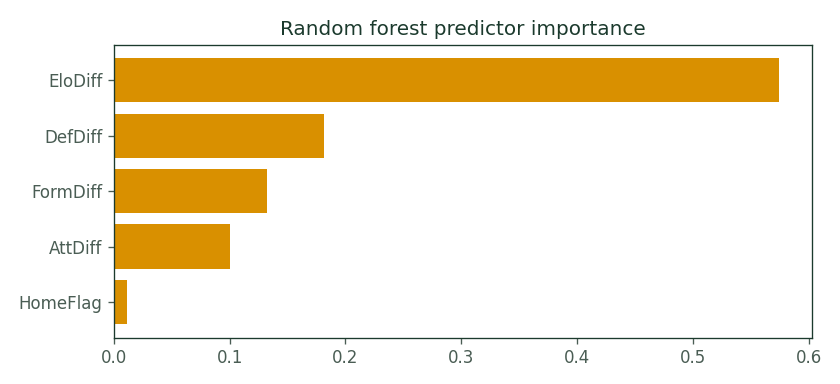
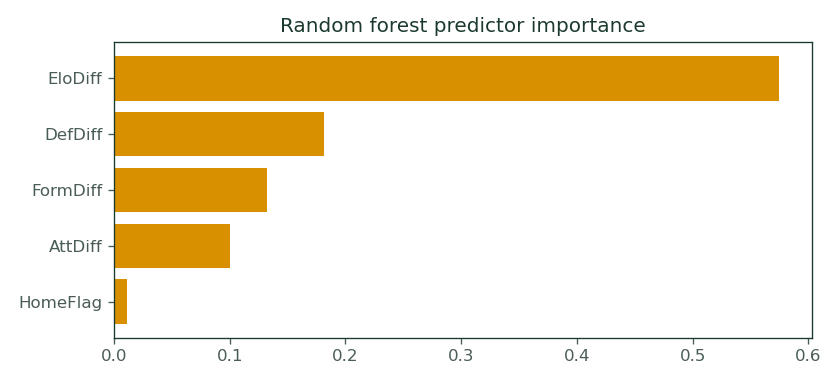
Add files via upload

diff --git a/index.html b/index.html
@@ -89,7 +89,7 @@ img.fig{max-width:100%;border-radius:12px;border:1px solid var(--line);margin:10
 <nav><a href="index.html">Matchday</a><a href="schedule.html">Schedule</a><a href="methods.html">Under the hood</a><a href="legacy.html">Since 2014</a><a href="about.html">About us</a><a href="index.html#subscribe">Subscribe</a></nav>
 </div></header><main class="wrap"><div class="chips"><span class="chip"><b>2</b>matches tomorrow</span><span class="chip"><b>60%</b>holdout accuracy</span><span class="chip"><b>13/16</b>2014 knockouts</span></div>
 <h2>Matchday: 2026-06-11</h2>
-<p class="note">Predictions lock before kickoff. Last build: 2026-06-10 19:04 UTC.</p>
+<p class="note">Predictions lock before kickoff. Last build: 2026-06-11 23:37 UTC.</p>
 <div class="card"><div class="meta"><span class="tag g">Group A</span><span class="tag">2026-06-11</span><span class="tag">Mexico City, Mexico</span></div><div class="duel"><div class="teams"><img class="flag" src="https://flagcdn.com/w28/mx.png" srcset="https://flagcdn.com/w56/mx.png 2x" width="28" alt="" loading="lazy">Mexico<span class="vs">vs</span><img class="flag" src="https://flagcdn.com/w28/za.png" srcset="https://flagcdn.com/w56/za.png 2x" width="28" alt="" loading="lazy">South Africa</div><div class="bignum"><b>81%</b><span>Mexico by 2</span></div></div><p class="pickline">Predicted outcome: <b>Mexico wins</b> with goal difference of 2. Confidence score 0.81 (max 1).</p><div class="bar"><i style="width:80.6%;background:var(--gold)"></i><i style="width:14.1%;background:var(--sage)"></i><i style="width:5.3%;background:var(--red)"></i></div><div class="legend"><img class="flag" src="https://flagcdn.com/w24/mx.png" srcset="https://flagcdn.com/w48/mx.png 2x" width="24" alt="" loading="lazy"> <b>Mexico</b> 81% · draw 14% · <img class="flag" src="https://flagcdn.com/w24/za.png" srcset="https://flagcdn.com/w48/za.png 2x" width="24" alt="" loading="lazy"> <b>South Africa</b> 5%</div><details><summary>How the model got here</summary><table>
 <tr><th></th>
 <th class="num"><abbr title="Strength rating updated after every match since 1872. Beating a stronger side gains more points; the world average is ~1500 and elite teams sit above 2000. Hosts get +100 for true home games.">Elo</abbr></th>
@@ -148,5 +148,5 @@ Weights come from each model's Brier score on 2,535 held-out internationals (202
 <input type="email" name="email" placeholder="[email redacted]" required>
 <button type="submit">Subscribe</button></form>
 <p class="note" style="margin-top:10px">Prefer a feed? <a href="feed.xml">RSS</a> updates with every build.</p></div></main>
-<footer><div class="wrap">UB Analytics · Not betting advice · Data: <a href="https://github.com/martj42/international_results">martj42/international_results</a> (CC0) · 2014–2018 archive: <a href="https://ubanalytics.wordpress.com">ubanalytics.wordpress.com</a></div></footer>
+<footer><div class="wrap">UB Analytics is an independent project, not affiliated with or endorsed by FIFA. Not betting advice. · Data: <a href="https://github.com/martj42/international_results">martj42/international_results</a> (CC0) · 2014–2018 archive: <a href="https://ubanalytics.wordpress.com">ubanalytics.wordpress.com</a></div></footer>
 </body></html>

diff --git a/about.html b/about.html
@@ -116,5 +116,5 @@ img.fig{max-width:100%;border-radius:12px;border:1px solid var(--line);margin:10
 <tr><td>2026 · North America</td><td>Bhupinder Juneja, Ujjal Mukherjee</td><td>Python + R, self-computed Elo, Poisson scorelines, Brier-weighted ensemble, public scorecard</td></tr>
 </table></div>
 <p class="note">Questions, corrections, or a model you think beats ours? The 2014 and 2018 archives are open at <a href="https://ubanalytics.wordpress.com">ubanalytics.wordpress.com</a>, and the 2026 methodology is fully documented <a href="methods.html">under the hood</a>.</p></main>
-<footer><div class="wrap">UB Analytics · Not betting advice · Data: <a href="https://github.com/martj42/international_results">martj42/international_results</a> (CC0) · 2014–2018 archive: <a href="https://ubanalytics.wordpress.com">ubanalytics.wordpress.com</a></div></footer>
+<footer><div class="wrap">UB Analytics is an independent project, not affiliated with or endorsed by FIFA. Not betting advice. · Data: <a href="https://github.com/martj42/international_results">martj42/international_results</a> (CC0) · 2014–2018 archive: <a href="https://ubanalytics.wordpress.com">ubanalytics.wordpress.com</a></div></footer>
 </body></html>

diff --git a/legacy.html b/legacy.html
@@ -105,5 +105,5 @@ img.fig{max-width:100%;border-radius:12px;border:1px solid var(--line);margin:10
 <div style="overflow-x:auto"><table><tr><th>Date</th><th>Round</th><th>Match</th><th>Predicted</th><th>Prob</th><th>Result</th></tr><tr><td class="">16-Jun-18</td><td class="">Group</td><td class="">Argentina vs. Iceland</td><td class="">Argentina</td><td class="">0.62</td><td class="miss">Draw</td></tr><tr><td class="">16-Jun-18</td><td class="">Group</td><td class="">Peru vs. Denmark</td><td class="">Denmark</td><td class="">0.5983</td><td class="hit">Denmark won by 1</td></tr><tr><td class="">16-Jun-18</td><td class="">Group</td><td class="">Croatia vs. Nigeria</td><td class="">Croatia</td><td class="">0.5586</td><td class="hit">Croatia won by 2</td></tr><tr><td class="">17-Jun-18</td><td class="">Group</td><td class="">Costa Rica vs. Serbia</td><td class="">Serbia</td><td class="">0.6431</td><td class="hit">Serbia won by 1</td></tr><tr><td class="">17-Jun-18</td><td class="">Group</td><td class="">Germany vs. Mexico</td><td class="">Germany</td><td class="">0.6664</td><td class="miss">Mexico won by 1</td></tr><tr><td class="">17-Jun-18</td><td class="">Group</td><td class="">Brazil vs. Switzerland</td><td class="">Brazil</td><td class="">0.6592</td><td class="miss">Draw</td></tr><tr><td class="">18-Jun-18</td><td class="">Group</td><td class="">Sweden vs. South Korea</td><td class="">Sweden</td><td class="">0.668</td><td class="hit">Sweden won by 1</td></tr><tr><td class="">18-Jun-18</td><td class="">Group</td><td class="">Belgium vs. Panama</td><td class="">Belgium</td><td class="">0.7345</td><td class="hit">Belgium won by 3</td></tr><tr><td class="">18-Jun-18</td><td class="">Group</td><td class="">Tunisia vs. England</td><td class="">England</td><td class="">0.7399</td><td class="hit">England won by 1</td></tr><tr><td class="">19-Jun-18</td><td class="">Group</td><td class="">Colombia vs. Japan</td><td class="">Japan</td><td class="">0.504</td><td class="hit">Japan won by 1</td></tr><tr><td class="">19-Jun-18</td><td class="">Group</td><td class="">Poland vs. Senegal</td><td class="">Poland</td><td class="">0.521</td><td class="miss">Senegal won by 1</td></tr><tr><td class="">19-Jun-18</td><td class="">Group</td><td class="">Russia vs. Egypt</td><td class="">Russia</td><td class="">0.6858</td><td class="hit">Russia won by 2</td></tr><tr><td class="">20-Jun-18</td><td class="">Group</td><td class="">Portugal vs. Morocco</td><td class="">Portugal</td><td class="">0.6742</td><td class="hit">Portugal won by 1</td></tr><tr><td class="">20-Jun-18</td><td class="">Group</td><td class="">Uruguay vs. Saudi Arabia</td><td class="">Uruguay</td><td class="">0.6547</td><td class="hit">Uruguay won by 1</td></tr><tr><td class="">20-Jun-18</td><td class="">Group</td><td class="">Spain vs. Iran</td><td class="">Spain</td><td class="">0.7633</td><td class="hit">Spain won by 1</td></tr><tr><td class="">21-Jun-18</td><td class="">Group</td><td class="">Denmark vs. Australia</td><td class="">Denmark</td><td class="">0.6736</td><td class="miss">Draw</td></tr><tr><td class="">21-Jun-18</td><td class="">Group</td><td class="">France vs. Peru</td><td class="">France</td><td class="">0.6631</td><td class="hit">France won by 1</td></tr><tr><td class="">21-Jun-18</td><td class="">Group</td><td class="">Argentina vs. Croatia</td><td class="">Argentina</td><td class="">0.6132</td><td class="miss">Croatia won by 3</td></tr><tr><td class="">22-Jun-18</td><td class="">Group</td><td class="">Brazil vs. Costa Rica</td><td class="">Brazil</td><td class="">0.7099</td><td class="hit">Brazil won by 2</td></tr><tr><td class="">22-Jun-18</td><td class="">Group</td><td class="">Nigeria vs. Iceland</td><td class="">Iceland</td><td class="">0.5136</td><td class="miss">Nigeria won by 2</td></tr><tr><td class="">22-Jun-18</td><td class="">Group</td><td class="">Serbia vs. Switzerland</td><td class="">Serbia</td><td class="">0.5058</td><td class="miss">Switzerland won by 1</td></tr><tr><td class="">23-Jun-18</td><td class="">Group</td><td class="">Belgium vs. Tunisia</td><td class="">Belgium</td><td class="">0.7601</td><td class="hit">Belgium won by 4</td></tr><tr><td class="">23-Jun-18</td><td class="">Group</td><td class="">South Korea vs. Mexico</td><td class="">Mexico</td><td class="">0.6767</td><td class="hit">Mexico won by 1</td></tr><tr><td class="">23-Jun-18</td><td class="">Group</td><td class="">Germany vs. Sweden</td><td class="">Germany</td><td class="">0.6699</td><td class="hit">Germany won by 1</td></tr><tr><td class="">24-Jun-18</td><td class="">Group</td><td class="">England vs. Panama</td><td class="">England</td><td class="">0.7109</td><td class="hit">England won by 5</td></tr><tr><td class="">24-Jun-18</td><td class="">Group</td><td class="">Japan vs. Senegal</td><td class="">Japan</td><td class="">0.5079</td><td class="miss">Draw</td></tr><tr><td class="">24-Jun-18</td><td class="">Group</td><td class="">Poland vs. Colombia</td><td class="">Poland</td><td class="">0.5609</td><td class="miss">Colombia won by 3</td></tr><tr><td class="">25-Jun-18</td><td class="">Group</td><td class="">Saudi Arabia vs. Egypt</td><td class="">Saudi Arabia</td><td class="">0.5657</td><td class="hit">Saudi Arabia won by 1</td></tr><tr><td class="">25-Jun-18</td><td class="">Group</td><td class="">Uruguay vs. Russia</td><td class="">Uruguay</td><td class="">0.7259</td><td class="hit">Uruguay won by 3</td></tr><tr><td class="">25-Jun-18</td><td class="">Group</td><td class="">Iran vs. Portugal</td><td class="">Portugal</td><td class="">0.7068</td><td class="miss">Draw</td></tr><tr><td class="">25-Jun-18</td><td class="">Group</td><td class="">Spain vs. Morocco</td><td class="">Spain</td><td class="">0.7562</td><td class="miss">Draw</td></tr><tr><td class="">26-Jun-18</td><td class="">Group</td><td class="">Australia vs. Peru</td><td class="">Australia</td><td class="">0.5099</td><td class="miss">Peru won by 2</td></tr><tr><td class="">26-Jun-18</td><td class="">Group</td><td class="">Denmark vs. France</td><td class="">France</td><td class="">0.6071</td><td class="miss">Draw</td></tr><tr><td class="">26-Jun-18</td><td class="">Group</td><td class="">Nigeria vs. Argentina</td><td class="">Argentina</td><td class="">0.6295</td><td class="hit">Argentina won by 1</td></tr><tr><td class="">26-Jun-18</td><td class="">Group</td><td class="">Iceland vs. Croatia</td><td class="">Iceland</td><td class="">0.5631</td><td class="miss">Croatia won by 1</td></tr><tr><td class="">27-Jun-18</td><td class="">Group</td><td class="">South Korea vs. Germany</td><td class="">Germany</td><td class="">0.7716</td><td class="miss">South Korea won by 2</td></tr><tr><td class="">27-Jun-18</td><td class="">Group</td><td class="">Mexico vs. Sweden</td><td class="">Sweden</td><td class="">0.5988</td><td class="hit">Sweden won by 3</td></tr><tr><td class="">27-Jun-18</td><td class="">Group</td><td class="">Serbia vs. Brazil</td><td class="">Brazil</td><td class="">0.6642</td><td class="hit">Brazil won by 2</td></tr><tr><td class="">27-Jun-18</td><td class="">Group</td><td class="">Switzerland vs. Costa Rica</td><td class="">Costa Rica</td><td class="">0.5</td><td class="miss">Draw</td></tr><tr><td class="">28-Jun-18</td><td class="">Group</td><td class="">Japan vs. Poland</td><td class="">Poland</td><td class="">0.5406</td><td class="hit">Poland won by 1</td></tr><tr><td class="">28-Jun-18</td><td class="">Group</td><td class="">Senegal vs. Colombia</td><td class="">Senegal</td><td class="">0.5214</td><td class="miss">Colombia won by 1</td></tr><tr><td class="">28-Jun-18</td><td class="">Group</td><td class="">Panama vs. Tunisia</td><td class="">Panama</td><td class="">0.5977</td><td class="miss">Tunisia won by 1</td></tr><tr><td class="">28-Jun-18</td><td class="">Group</td><td class="">England vs. Belgium</td><td class="">Belgium</td><td class="">0.5982</td><td class="hit">Belgium won by 1</td></tr><tr><td class="">30-Jun-18</td><td class="">Round of 16</td><td class="">Uruguay vs. Portugal</td><td class="">Portugal</td><td class="">0.56</td><td class="miss">Uruguay won by 1</td></tr><tr><td class="">30-Jun-18</td><td class="">Round of 16</td><td class="">France vs. Argentina</td><td class="">Argentina</td><td class="">0.66</td><td class="miss">France won by 1</td></tr><tr><td class="">1-Jul-18</td><td class="">Round of 16</td><td class="">Spain vs. Russia</td><td class="">Spain</td><td class="">0.79</td><td class="miss">Russia won in penalty shoot-out</td></tr><tr><td class="">1-Jul-18</td><td class="">Round of 16</td><td class="">Croatia vs. Denmark</td><td class="">Croatia</td><td class="">0.52</td><td class="hit">Croatia won in penalty shoot-out</td></tr><tr><td class="">1-Jul-18</td><td class="">Round of 16</td><td class="">Brazil vs. Mexico</td><td class="">Brazil</td><td class="">0.71</td><td class="hit">Brazil won by 2</td></tr><tr><td class="">1-Jul-18</td><td class="">Round of 16</td><td class="">Belgium vs. Japan</td><td class="">Belgium</td><td class="">0.8</td><td class="hit">Belgium won by 1</td></tr><tr><td class="">6-Jul-18</td><td class="">Quarter Finals</td><td class="">Uruguay vs. France</td><td class="">Uruguay</td><td class="">0.63</td><td class="miss">France won by 2</td></tr><tr><td class="">6-Jul-18</td><td class="">Quarter Finals</td><td class="">Belgium vs. Brazil</td><td class="">Belgium</td><td class="">0.57</td><td class="hit">Belgium won by 1</td></tr><tr><td class="">7-Jul-18</td><td class="">Quarter Finals</td><td class="">Sweden vs. England</td><td class="">England</td><td class="">0.58</td><td class="hit">England won by 2</td></tr><tr><td class="">7-Jul-18</td><td class="">Quarter Finals</td><td class="">Russia vs. Croatia</td><td class="">Croatia</td><td class="">0.52</td><td class="hit">Croatia won in penalty shoot-out</td></tr></table></div></details>
 <h2>What carried forward</h2>
 <p class="note">Three constants across twelve years: predictions published before kickoff, results posted next to them whatever they say, and a team-strength-difference architecture under the hood. What changed is the discipline around it: 2026 adds strictly out-of-sample evaluation, calibrated probabilities, draw modeling, and a scorecard that updates itself. The archive of the first two campaigns remains at <a href="https://ubanalytics.wordpress.com">ubanalytics.wordpress.com</a>.</p></main>
-<footer><div class="wrap">UB Analytics · Not betting advice · Data: <a href="https://github.com/martj42/international_results">martj42/international_results</a> (CC0) · 2014–2018 archive: <a href="https://ubanalytics.wordpress.com">ubanalytics.wordpress.com</a></div></footer>
+<footer><div class="wrap">UB Analytics is an independent project, not affiliated with or endorsed by FIFA. Not betting advice. · Data: <a href="https://github.com/martj42/international_results">martj42/international_results</a> (CC0) · 2014–2018 archive: <a href="https://ubanalytics.wordpress.com">ubanalytics.wordpress.com</a></div></footer>
 </body></html>

diff --git a/methods.html b/methods.html
@@ -148,5 +148,5 @@ img.fig{max-width:100%;border-radius:12px;border:1px solid var(--line);margin:10
 <img class="fig" src="img_elo.png" alt="Elo top 20">
 <h2>6 · Lineage and classroom use</h2>
 <p class="note">The 2014 system scraped Soccerwiki for player-derived ratings, added FiveThirtyEight's SPI, imputed shot differentials with random forests, and ensembled GLM, random forest, and SVM; it called Germany over Argentina in the final. 2014–2018 archive: <a href="https://ubanalytics.wordpress.com">ubanalytics.wordpress.com</a>.</p></main>
-<footer><div class="wrap">UB Analytics · Not betting advice · Data: <a href="https://github.com/martj42/international_results">martj42/international_results</a> (CC0) · 2014–2018 archive: <a href="https://ubanalytics.wordpress.com">ubanalytics.wordpress.com</a></div></footer>
+<footer><div class="wrap">UB Analytics is an independent project, not affiliated with or endorsed by FIFA. Not betting advice. · Data: <a href="https://github.com/martj42/international_results">martj42/international_results</a> (CC0) · 2014–2018 archive: <a href="https://ubanalytics.wordpress.com">ubanalytics.wordpress.com</a></div></footer>
 </body></html>

diff --git a/schedule.html b/schedule.html
@@ -100,5 +100,5 @@ document.querySelectorAll('.filters button').forEach(b=>b.addEventListener('clic
  document.querySelectorAll('.filters button').forEach(x=>x.classList.remove('on'));b.classList.add('on');
  const g=b.dataset.g;document.querySelectorAll('#sched tr[data-g]').forEach(t=>{t.style.display=(g==='all'||t.dataset.g===g)?'':'none'});}));
 </script></main>
-<footer><div class="wrap">UB Analytics · Not betting advice · Data: <a href="https://github.com/martj42/international_results">martj42/international_results</a> (CC0) · 2014–2018 archive: <a href="https://ubanalytics.wordpress.com">ubanalytics.wordpress.com</a></div></footer>
+<footer><div class="wrap">UB Analytics is an independent project, not affiliated with or endorsed by FIFA. Not betting advice. · Data: <a href="https://github.com/martj42/international_results">martj42/international_results</a> (CC0) · 2014–2018 archive: <a href="https://ubanalytics.wordpress.com">ubanalytics.wordpress.com</a></div></footer>
 </body></html>